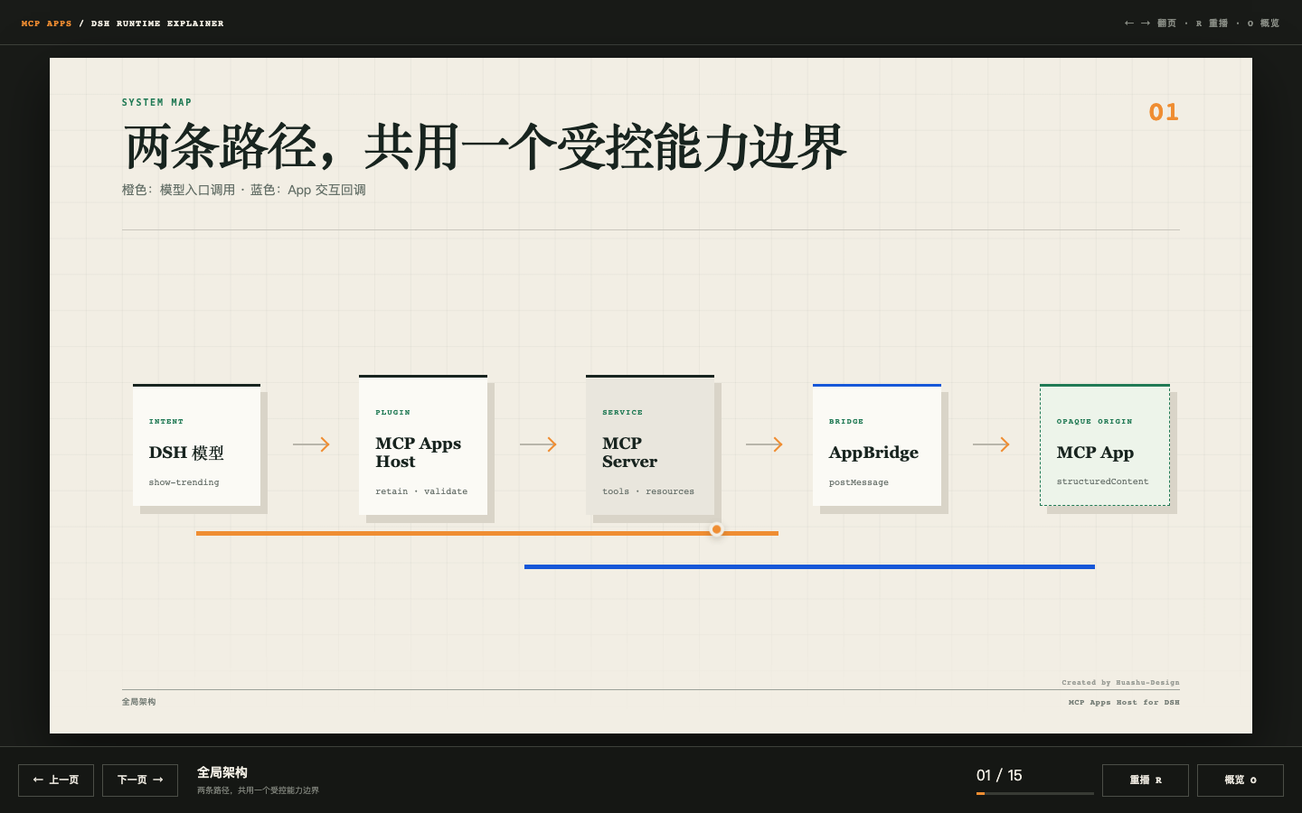
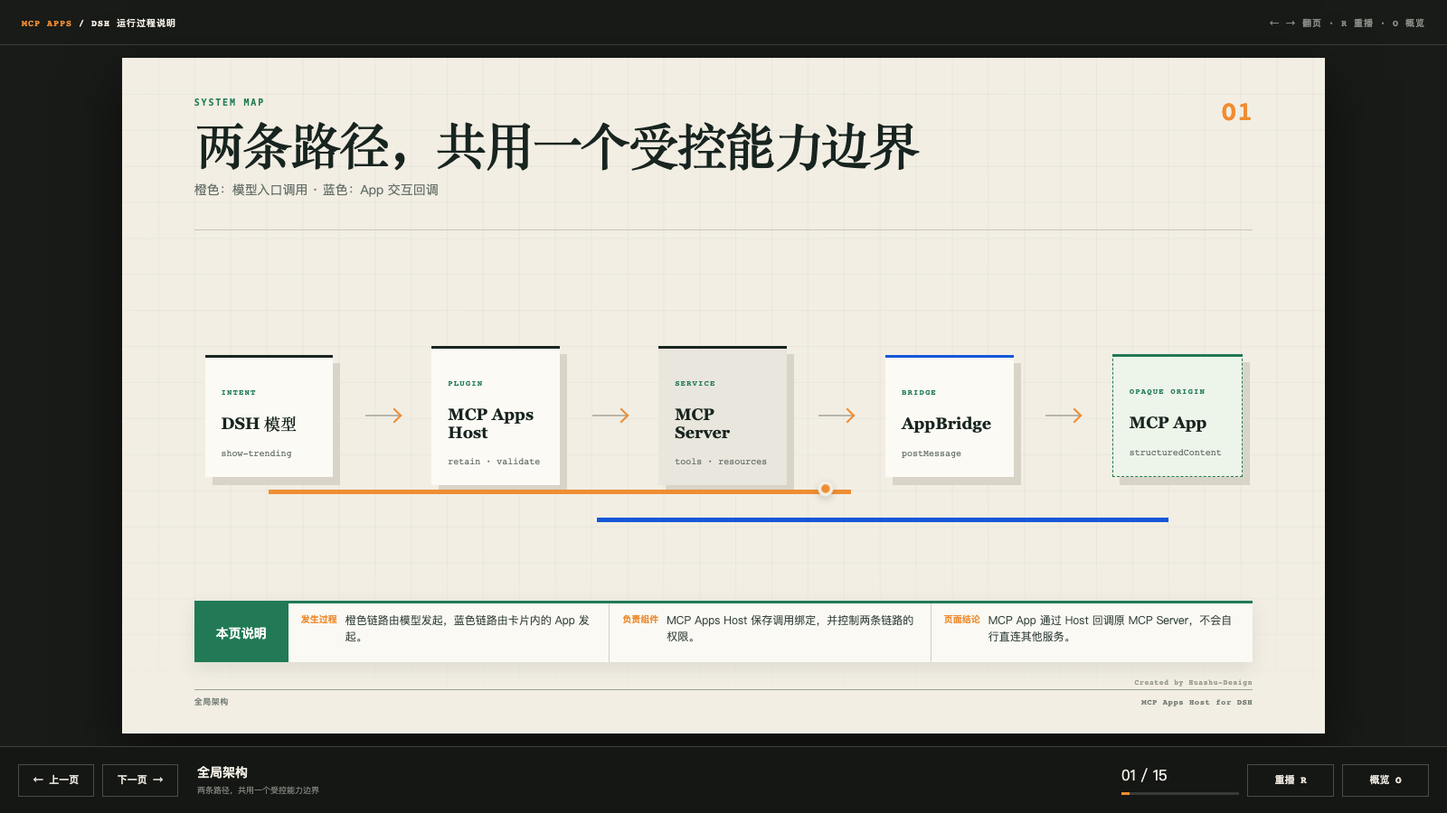
docs: annotate animation pages in Chinese

diff --git a/docs/mcp-apps-runtime-animation/pages/13-wisework-chain.html b/docs/mcp-apps-runtime-animation/pages/13-wisework-chain.html
@@ -1,3 +1,3 @@
 <!doctype html>
 <html lang="zh-CN"><head><meta charset="utf-8"><meta name="viewport" content="width=device-width,initial-scale=1"><title>13 · WiseWork 用 Runtime Broker 接住 OpenCode 工具事件</title><link rel="stylesheet" href="../page.css"></head>
-<body><main class="page"><div class="grid-bg"></div><header class="page-header"><div class="chapter">WISEWORK SIMULATION</div><h1>WiseWork 用 Runtime Broker 接住 OpenCode 工具事件</h1><p>此前模拟链路增加了主进程会话、IPC/Preload、双层沙箱与 DTS MCP App</p><span class="page-no">13</span></header><section class="visual"><div class="ww-chain"><article class="ww-node rise" style="--delay:.1s"><small>MODEL</small><b>OpenCode</b><code>ACP tool event</code></article><i class="arrow fade" style="--delay:.35s"></i><article class="ww-node rise" style="--delay:.3s"><small>ADAPTER</small><b>Runtime Broker</b><code>merge running/completed</code></article><i class="arrow fade" style="--delay:.55s"></i><article class="ww-node rise" style="--delay:.5s"><small>MAIN</small><b>Session Manager</b><code>resource · tool · session</code></article><i class="arrow fade" style="--delay:.75s"></i><article class="ww-node rise" style="--delay:.7s"><small>BOUNDARY</small><b>IPC / Preload</b><code>open · call · close</code></article><i class="arrow fade" style="--delay:.95s"></i><article class="ww-node rise" style="--delay:.9s"><small>RENDERER</small><b>双层 iframe</b><code>opaque origin</code></article><i class="arrow fade" style="--delay:1.15s"></i><article class="ww-node rise" style="--delay:1.1s"><small>BRIDGE</small><b>AppBridge</b><code>callServerTool</code></article><i class="arrow fade" style="--delay:1.35s"></i><article class="ww-node rise" style="--delay:1.3s"><small>SERVICE</small><b>DTS Server</b><code>MockDtsGateway</code></article></div></section><footer class="page-footer"><span>Referenced WiseWork implementation</span><span>MCP Apps Host for DSH</span></footer><span class="watermark">Created by Huashu-Design</span></main><script src="../page.js"></script></body></html>
+<body><main class="page"><div class="grid-bg"></div><header class="page-header"><div class="chapter">WISEWORK SIMULATION</div><h1>WiseWork 用 Runtime Broker 接住 OpenCode 工具事件</h1><p>此前模拟链路增加了主进程会话、IPC/Preload、双层沙箱与 DTS MCP App</p><span class="page-no">13</span></header><section class="visual"><div class="ww-chain"><article class="ww-node rise" style="--delay:.1s"><small>MODEL</small><b>OpenCode</b><code>ACP tool event</code></article><i class="arrow fade" style="--delay:.35s"></i><article class="ww-node rise" style="--delay:.3s"><small>ADAPTER</small><b>Runtime Broker</b><code>merge running/completed</code></article><i class="arrow fade" style="--delay:.55s"></i><article class="ww-node rise" style="--delay:.5s"><small>MAIN</small><b>Session Manager</b><code>resource · tool · session</code></article><i class="arrow fade" style="--delay:.75s"></i><article class="ww-node rise" style="--delay:.7s"><small>BOUNDARY</small><b>IPC / Preload</b><code>open · call · close</code></article><i class="arrow fade" style="--delay:.95s"></i><article class="ww-node rise" style="--delay:.9s"><small>RENDERER</small><b>双层 iframe</b><code>opaque origin</code></article><i class="arrow fade" style="--delay:1.15s"></i><article class="ww-node rise" style="--delay:1.1s"><small>BRIDGE</small><b>AppBridge</b><code>callServerTool</code></article><i class="arrow fade" style="--delay:1.35s"></i><article class="ww-node rise" style="--delay:1.3s"><small>SERVICE</small><b>DTS Server</b><code>MockDtsGateway</code></article></div></section><aside class="page-note rise" style="--delay:.2s" aria-label="本页说明"><strong>本页说明</strong><div><b>发生过程</b><span>OpenCode 的 ACP 工具事件依次经过 Runtime Broker、Session Manager 和 IPC。</span></div><div><b>负责组件</b><span>WiseWork 主进程维护会话，Renderer 用双层 iframe 与 AppBridge 承载 DTS App。</span></div><div><b>页面结论</b><span>这条模拟链路与 DSH 插件采用相同的 Host、沙箱和 App 回调思路。</span></div></aside><footer class="page-footer"><span>Referenced WiseWork implementation</span><span>MCP Apps Host for DSH</span></footer><span class="watermark">Created by Huashu-Design</span></main><script src="../page.js"></script></body></html>

diff --git a/docs/mcp-apps-runtime-animation/pages/02-dsh-runtime.html b/docs/mcp-apps-runtime-animation/pages/02-dsh-runtime.html
@@ -1,3 +1,3 @@
 <!doctype html>
 <html lang="zh-CN"><head><meta charset="utf-8"><meta name="viewport" content="width=device-width,initial-scale=1"><title>02 · DSH 启动时，插件先建立运行面</title><link rel="stylesheet" href="../page.css"></head>
-<body><main class="page"><div class="grid-bg"></div><header class="page-header"><div class="chapter">DSH RUNTIME</div><h1>DSH 启动时，插件先建立运行面</h1><p>Profile composition → plugin apply → MCP connection → tool registration</p><span class="page-no">02</span></header><section class="visual"><div class="node-row"><article class="flow-node rise" style="--delay:.1s"><small>CLI</small><b>dsh web</b><code>profile = web</code></article><i class="arrow fade" style="--delay:.4s"></i><article class="flow-node rise" style="--delay:.3s"><small>COMPOSE</small><b>加载插件包</b><code>@exian/dsh-mcp-apps</code></article><i class="arrow fade" style="--delay:.6s"></i><article class="flow-node active rise" style="--delay:.5s"><small>HOST</small><b>apply(ctx)</b><code>Connection · AppHost</code></article><i class="arrow fade" style="--delay:.8s"></i><article class="flow-node server rise" style="--delay:.7s"><small>CHILD PROCESS</small><b>GitHub Trending</b><code>stdio initialize</code></article><i class="arrow fade" style="--delay:1s"></i><article class="flow-node rise" style="--delay:.9s"><small>MODEL SURFACE</small><b>注册工具</b><code>wise_mcp__…</code></article></div><div class="chips" style="position:absolute;left:23%;right:23%;bottom:5%;justify-content:center"><span class="chip ok pop" style="--delay:1.4s">✓ MCP initialized</span><span class="chip ok pop" style="--delay:1.65s">✓ tools/list</span><span class="chip ok pop" style="--delay:1.9s">✓ UI extension declared</span></div></section><footer class="page-footer"><span>真实 DSH 插件启动过程</span><span>MCP Apps Host for DSH</span></footer><span class="watermark">Created by Huashu-Design</span></main><script src="../page.js"></script></body></html>
+<body><main class="page"><div class="grid-bg"></div><header class="page-header"><div class="chapter">DSH RUNTIME</div><h1>DSH 启动时，插件先建立运行面</h1><p>Profile composition → plugin apply → MCP connection → tool registration</p><span class="page-no">02</span></header><section class="visual"><div class="node-row"><article class="flow-node rise" style="--delay:.1s"><small>CLI</small><b>dsh web</b><code>profile = web</code></article><i class="arrow fade" style="--delay:.4s"></i><article class="flow-node rise" style="--delay:.3s"><small>COMPOSE</small><b>加载插件包</b><code>@exian/dsh-mcp-apps</code></article><i class="arrow fade" style="--delay:.6s"></i><article class="flow-node active rise" style="--delay:.5s"><small>HOST</small><b>apply(ctx)</b><code>Connection · AppHost</code></article><i class="arrow fade" style="--delay:.8s"></i><article class="flow-node server rise" style="--delay:.7s"><small>CHILD PROCESS</small><b>GitHub Trending</b><code>stdio initialize</code></article><i class="arrow fade" style="--delay:1s"></i><article class="flow-node rise" style="--delay:.9s"><small>MODEL SURFACE</small><b>注册工具</b><code>wise_mcp__…</code></article></div><div class="chips" style="position:absolute;left:23%;right:23%;bottom:5%;justify-content:center"><span class="chip ok pop" style="--delay:1.4s">✓ MCP initialized</span><span class="chip ok pop" style="--delay:1.65s">✓ tools/list</span><span class="chip ok pop" style="--delay:1.9s">✓ UI extension declared</span></div></section><aside class="page-note rise" style="--delay:.2s" aria-label="本页说明"><strong>本页说明</strong><div><b>发生过程</b><span>启动 dsh web 后，DSH 组合 web profile、加载插件并连接 MCP Server。</span></div><div><b>负责组件</b><span>插件的 apply(ctx) 创建连接、AppHost 和模型可见工具。</span></div><div><b>页面结论</b><span>完成 initialize、tools/list 与 UI 扩展声明后，MCP App 才具备运行条件。</span></div></aside><footer class="page-footer"><span>真实 DSH 插件启动过程</span><span>MCP Apps Host for DSH</span></footer><span class="watermark">Created by Huashu-Design</span></main><script src="../page.js"></script></body></html>

diff --git a/docs/mcp-apps-runtime-animation/pages/01-system-map.html b/docs/mcp-apps-runtime-animation/pages/01-system-map.html
@@ -1,3 +1,3 @@
 <!doctype html>
 <html lang="zh-CN"><head><meta charset="utf-8"><meta name="viewport" content="width=device-width,initial-scale=1"><title>01 · 两条路径，共用一个受控能力边界</title><link rel="stylesheet" href="../page.css"></head>
-<body><main class="page"><div class="grid-bg"></div><header class="page-header"><div class="chapter">SYSTEM MAP</div><h1>两条路径，共用一个受控能力边界</h1><p>橙色：模型入口调用 · 蓝色：App 交互回调</p><span class="page-no">01</span></header><section class="visual"><div class="node-row"><article class="flow-node rise" style="--delay:.1s"><small>INTENT</small><b>DSH 模型</b><code>show-trending</code></article><i class="arrow fade" style="--delay:.45s"></i><article class="flow-node rise" style="--delay:.3s"><small>PLUGIN</small><b>MCP Apps Host</b><code>retain · validate</code></article><i class="arrow fade" style="--delay:.65s"></i><article class="flow-node server rise" style="--delay:.5s"><small>SERVICE</small><b>MCP Server</b><code>tools · resources</code></article><i class="arrow fade" style="--delay:.85s"></i><article class="flow-node active rise" style="--delay:.7s"><small>BRIDGE</small><b>AppBridge</b><code>postMessage</code></article><i class="arrow fade" style="--delay:1.05s"></i><article class="flow-node sandbox rise" style="--delay:.9s"><small>OPAQUE ORIGIN</small><b>MCP App</b><code>structuredContent</code></article></div><div class="trace" style="left:7%;top:69%;width:55%;--delay:1.4s"></div><div class="trace blue" style="left:38%;top:77%;width:54%;--delay:2s"></div><i class="packet" style="left:8%;top:66.5%;--tx:720px;--delay:1.5s"></i></section><footer class="page-footer"><span>全局架构</span><span>MCP Apps Host for DSH</span></footer><span class="watermark">Created by Huashu-Design</span></main><script src="../page.js"></script></body></html>
+<body><main class="page"><div class="grid-bg"></div><header class="page-header"><div class="chapter">SYSTEM MAP</div><h1>两条路径，共用一个受控能力边界</h1><p>橙色：模型入口调用 · 蓝色：App 交互回调</p><span class="page-no">01</span></header><section class="visual"><div class="node-row"><article class="flow-node rise" style="--delay:.1s"><small>INTENT</small><b>DSH 模型</b><code>show-trending</code></article><i class="arrow fade" style="--delay:.45s"></i><article class="flow-node rise" style="--delay:.3s"><small>PLUGIN</small><b>MCP Apps Host</b><code>retain · validate</code></article><i class="arrow fade" style="--delay:.65s"></i><article class="flow-node server rise" style="--delay:.5s"><small>SERVICE</small><b>MCP Server</b><code>tools · resources</code></article><i class="arrow fade" style="--delay:.85s"></i><article class="flow-node active rise" style="--delay:.7s"><small>BRIDGE</small><b>AppBridge</b><code>postMessage</code></article><i class="arrow fade" style="--delay:1.05s"></i><article class="flow-node sandbox rise" style="--delay:.9s"><small>OPAQUE ORIGIN</small><b>MCP App</b><code>structuredContent</code></article></div><div class="trace" style="left:7%;top:69%;width:55%;--delay:1.4s"></div><div class="trace blue" style="left:38%;top:77%;width:54%;--delay:2s"></div><i class="packet" style="left:8%;top:66.5%;--tx:720px;--delay:1.5s"></i></section><aside class="page-note rise" style="--delay:.2s" aria-label="本页说明"><strong>本页说明</strong><div><b>发生过程</b><span>橙色链路由模型发起，蓝色链路由卡片内的 App 发起。</span></div><div><b>负责组件</b><span>MCP Apps Host 保存调用绑定，并控制两条链路的权限。</span></div><div><b>页面结论</b><span>MCP App 通过 Host 回调原 MCP Server，不会自行直连其他服务。</span></div></aside><footer class="page-footer"><span>全局架构</span><span>MCP Apps Host for DSH</span></footer><span class="watermark">Created by Huashu-Design</span></main><script src="../page.js"></script></body></html>

diff --git a/docs/mcp-apps-runtime-animation/pages/10-server-response.html b/docs/mcp-apps-runtime-animation/pages/10-server-response.html
@@ -1,3 +1,3 @@
 <!doctype html>
 <html lang="zh-CN"><head><meta charset="utf-8"><meta name="viewport" content="width=device-width,initial-scale=1"><title>10 · 业务仍然由原 MCP Server 执行</title><link rel="stylesheet" href="../page.css"></head>
-<body><main class="page"><div class="grid-bg"></div><header class="page-header"><div class="chapter">MCP SERVER</div><h1>业务仍然由原 MCP Server 执行</h1><p>Host 通过保留会话解析服务器，调用 app-visible 的 refresh-trending</p><span class="page-no">10</span></header><section class="visual"><div class="node-row"><article class="flow-node sandbox rise" style="--delay:.1s"><small>INNER APP</small><b>refresh-trending</b><code>{ period: day }</code></article><i class="arrow fade" style="--delay:.4s"></i><article class="flow-node active rise" style="--delay:.35s"><small>APPBRIDGE</small><b>oncalltool</b><code>trusted callback</code></article><i class="arrow fade" style="--delay:.65s"></i><article class="flow-node rise" style="--delay:.6s"><small>CONNECTION RPC</small><b>apps/call</b><code>{ sessionId }</code></article><i class="arrow fade" style="--delay:.9s"></i><article class="flow-node rise" style="--delay:.85s"><small>APPHOST</small><b>validate</b><code>same server</code></article><i class="arrow fade" style="--delay:1.15s"></i><article class="flow-node server pop" style="--delay:1.1s"><small>MCP SERVER</small><b>tools/call</b><code>CallToolResult</code></article></div><div class="trace blue" style="left:8%;top:75%;width:83%;--delay:1.5s"></div></section><footer class="page-footer"><span>AppBridge callback → apps/call → MCP tools/call</span><span>MCP Apps Host for DSH</span></footer><span class="watermark">Created by Huashu-Design</span></main><script src="../page.js"></script></body></html>
+<body><main class="page"><div class="grid-bg"></div><header class="page-header"><div class="chapter">MCP SERVER</div><h1>业务仍然由原 MCP Server 执行</h1><p>Host 通过保留会话解析服务器，调用 app-visible 的 refresh-trending</p><span class="page-no">10</span></header><section class="visual"><div class="node-row"><article class="flow-node sandbox rise" style="--delay:.1s"><small>INNER APP</small><b>refresh-trending</b><code>{ period: day }</code></article><i class="arrow fade" style="--delay:.4s"></i><article class="flow-node active rise" style="--delay:.35s"><small>APPBRIDGE</small><b>oncalltool</b><code>trusted callback</code></article><i class="arrow fade" style="--delay:.65s"></i><article class="flow-node rise" style="--delay:.6s"><small>CONNECTION RPC</small><b>apps/call</b><code>{ sessionId }</code></article><i class="arrow fade" style="--delay:.9s"></i><article class="flow-node rise" style="--delay:.85s"><small>APPHOST</small><b>validate</b><code>same server</code></article><i class="arrow fade" style="--delay:1.15s"></i><article class="flow-node server pop" style="--delay:1.1s"><small>MCP SERVER</small><b>tools/call</b><code>CallToolResult</code></article></div><div class="trace blue" style="left:8%;top:75%;width:83%;--delay:1.5s"></div></section><aside class="page-note rise" style="--delay:.2s" aria-label="本页说明"><strong>本页说明</strong><div><b>发生过程</b><span>校验通过后，请求沿 apps/call 回到原 MCP Server 的 tools/call。</span></div><div><b>负责组件</b><span>MCP Server 执行业务逻辑并返回新的 CallToolResult。</span></div><div><b>页面结论</b><span>Host 负责安全转发和会话绑定，具体业务仍属于 MCP Server。</span></div></aside><footer class="page-footer"><span>AppBridge callback → apps/call → MCP tools/call</span><span>MCP Apps Host for DSH</span></footer><span class="watermark">Created by Huashu-Design</span></main><script src="../page.js"></script></body></html>

diff --git a/docs/mcp-apps-runtime-animation/pages/05-open-app.html b/docs/mcp-apps-runtime-animation/pages/05-open-app.html
@@ -1,3 +1,3 @@
 <!doctype html>
 <html lang="zh-CN"><head><meta charset="utf-8"><meta name="viewport" content="width=device-width,initial-scale=1"><title>05 · 工具卡片恢复一个独立 App 会话</title><link rel="stylesheet" href="../page.css"></head>
-<body><main class="page"><div class="grid-bg"></div><header class="page-header"><div class="chapter">OPEN VIEW</div><h1>工具卡片恢复一个独立 App 会话</h1><p>callToken 不能选择服务器，只能恢复原调用绑定的资源</p><span class="page-no">05</span></header><section class="visual"><div class="node-row"><article class="flow-node rise" style="--delay:.1s"><small>DSH CLIENT</small><b>工具卡片</b><code>presentationMeta</code></article><i class="arrow fade" style="--delay:.4s"></i><article class="flow-node active rise" style="--delay:.35s"><small>CONNECTION RPC</small><b>apps/open</b><code>{ callToken }</code></article><i class="arrow fade" style="--delay:.65s"></i><article class="flow-node rise" style="--delay:.6s"><small>APPHOST</small><b>恢复绑定</b><code>server · tool · result</code></article><i class="arrow fade" style="--delay:.9s"></i><article class="flow-node server rise" style="--delay:.85s"><small>MCP</small><b>resources/read</b><code>ui://…/app.html</code></article><i class="arrow fade" style="--delay:1.15s"></i><article class="flow-node active pop" style="--delay:1.1s"><small>CAPABILITY</small><b>sessionId</b><code>per open view</code></article></div></section><footer class="page-footer"><span>Tool Card → Connection RPC → AppHost</span><span>MCP Apps Host for DSH</span></footer><span class="watermark">Created by Huashu-Design</span></main><script src="../page.js"></script></body></html>
+<body><main class="page"><div class="grid-bg"></div><header class="page-header"><div class="chapter">OPEN VIEW</div><h1>工具卡片恢复一个独立 App 会话</h1><p>callToken 不能选择服务器，只能恢复原调用绑定的资源</p><span class="page-no">05</span></header><section class="visual"><div class="node-row"><article class="flow-node rise" style="--delay:.1s"><small>DSH CLIENT</small><b>工具卡片</b><code>presentationMeta</code></article><i class="arrow fade" style="--delay:.4s"></i><article class="flow-node active rise" style="--delay:.35s"><small>CONNECTION RPC</small><b>apps/open</b><code>{ callToken }</code></article><i class="arrow fade" style="--delay:.65s"></i><article class="flow-node rise" style="--delay:.6s"><small>APPHOST</small><b>恢复绑定</b><code>server · tool · result</code></article><i class="arrow fade" style="--delay:.9s"></i><article class="flow-node server rise" style="--delay:.85s"><small>MCP</small><b>resources/read</b><code>ui://…/app.html</code></article><i class="arrow fade" style="--delay:1.15s"></i><article class="flow-node active pop" style="--delay:1.1s"><small>CAPABILITY</small><b>sessionId</b><code>per open view</code></article></div></section><aside class="page-note rise" style="--delay:.2s" aria-label="本页说明"><strong>本页说明</strong><div><b>发生过程</b><span>工具卡片用 callToken 请求 apps/open，Host 再读取绑定的 HTML 资源。</span></div><div><b>负责组件</b><span>AppHost 恢复原服务器与原工具关系，并为当前视图创建 sessionId。</span></div><div><b>页面结论</b><span>callToken 只能恢复原调用，不能被用来选择另一个 MCP Server。</span></div></aside><footer class="page-footer"><span>Tool Card → Connection RPC → AppHost</span><span>MCP Apps Host for DSH</span></footer><span class="watermark">Created by Huashu-Design</span></main><script src="../page.js"></script></body></html>

diff --git a/docs/mcp-apps-runtime-animation/pages/12-responsibilities.html b/docs/mcp-apps-runtime-animation/pages/12-responsibilities.html
@@ -1,3 +1,3 @@
 <!doctype html>
 <html lang="zh-CN"><head><meta charset="utf-8"><meta name="viewport" content="width=device-width,initial-scale=1"><title>12 · 插件提供运行时，Server 提供业务与界面</title><link rel="stylesheet" href="../page.css"></head>
-<body><main class="page"><div class="grid-bg"></div><header class="page-header"><div class="chapter">RESPONSIBILITIES</div><h1>插件提供运行时，Server 提供业务与界面</h1><p>新增标准 MCP App 时，通常只需要扩展对应 MCP Server</p><span class="page-no">12</span></header><section class="visual"><div class="split"><article class="panel green rise" style="--delay:.1s"><span class="label">PLUGIN HOST</span><h2>连接 · 隔离 · 渲染 · 回调</h2><div class="chips"><span class="chip ok">stdio / HTTP</span><span class="chip ok">session capability</span><span class="chip ok">double iframe</span><span class="chip ok">AppBridge host</span><span class="chip ok">validation</span></div></article><article class="panel blue rise" style="--delay:.55s"><span class="label">MCP SERVER + APP</span><h2>工具 · 数据 · UI · 业务</h2><div class="chips"><span class="chip blue">entry tool</span><span class="chip blue">app-only tool</span><span class="chip blue">UI resource</span><span class="chip blue">structuredContent</span><span class="chip blue">App.connect()</span></div></article></div></section><footer class="page-footer"><span>Host surface and extension boundary</span><span>MCP Apps Host for DSH</span></footer><span class="watermark">Created by Huashu-Design</span></main><script src="../page.js"></script></body></html>
+<body><main class="page"><div class="grid-bg"></div><header class="page-header"><div class="chapter">RESPONSIBILITIES</div><h1>插件提供运行时，Server 提供业务与界面</h1><p>新增标准 MCP App 时，通常只需要扩展对应 MCP Server</p><span class="page-no">12</span></header><section class="visual"><div class="split"><article class="panel green rise" style="--delay:.1s"><span class="label">PLUGIN HOST</span><h2>连接 · 隔离 · 渲染 · 回调</h2><div class="chips"><span class="chip ok">stdio / HTTP</span><span class="chip ok">session capability</span><span class="chip ok">double iframe</span><span class="chip ok">AppBridge host</span><span class="chip ok">validation</span></div></article><article class="panel blue rise" style="--delay:.55s"><span class="label">MCP SERVER + APP</span><h2>工具 · 数据 · UI · 业务</h2><div class="chips"><span class="chip blue">entry tool</span><span class="chip blue">app-only tool</span><span class="chip blue">UI resource</span><span class="chip blue">structuredContent</span><span class="chip blue">App.connect()</span></div></article></div></section><aside class="page-note rise" style="--delay:.2s" aria-label="本页说明"><strong>本页说明</strong><div><b>发生过程</b><span>左侧列出插件运行时能力，右侧列出 MCP Server 与 App 的业务能力。</span></div><div><b>负责组件</b><span>插件负责连接、隔离、会话和校验；Server 负责工具、数据、UI 与业务。</span></div><div><b>页面结论</b><span>接入新 MCP App 时，通常扩展标准 Server/App，无需修改 DSH 核心。</span></div></aside><footer class="page-footer"><span>Host surface and extension boundary</span><span>MCP Apps Host for DSH</span></footer><span class="watermark">Created by Huashu-Design</span></main><script src="../page.js"></script></body></html>

diff --git a/docs/mcp-apps-runtime-animation/pages/04-retain-result.html b/docs/mcp-apps-runtime-animation/pages/04-retain-result.html
@@ -1,3 +1,3 @@
 <!doctype html>
 <html lang="zh-CN"><head><meta charset="utf-8"><meta name="viewport" content="width=device-width,initial-scale=1"><title>04 · 插件把一次结果拆成两个出口</title><link rel="stylesheet" href="../page.css"></head>
-<body><main class="page"><div class="grid-bg"></div><header class="page-header"><div class="chapter">RETAIN RESULT</div><h1>插件把一次结果拆成两个出口</h1><p>模型拿到安全结果，浏览器卡片拿到短期能力标识</p><span class="page-no">04</span></header><section class="visual"><div class="split"><article class="panel green rise" style="--delay:.15s"><span class="label">MODEL SAFE RESULT</span><h2>进入模型上下文</h2><div class="chips"><span class="chip ok">content</span><span class="chip ok">structuredContent</span><span class="chip">UI metadata removed</span></div></article><article class="panel blue rise" style="--delay:.65s"><span class="label">RETAINED IN HOST</span><h2>供 App 初始化</h2><div class="chips"><span class="chip blue">original result</span><span class="chip blue">tool input</span><span class="chip blue">server identity</span><span class="chip blue">resource URI</span></div></article></div><div class="chip pop" style="position:absolute;left:46%;top:44%;background:var(--orange);font-size:13px;--delay:1.35s">callToken</div></section><footer class="page-footer"><span>AppHost · retained result · callToken</span><span>MCP Apps Host for DSH</span></footer><span class="watermark">Created by Huashu-Design</span></main><script src="../page.js"></script></body></html>
+<body><main class="page"><div class="grid-bg"></div><header class="page-header"><div class="chapter">RETAIN RESULT</div><h1>插件把一次结果拆成两个出口</h1><p>模型拿到安全结果，浏览器卡片拿到短期能力标识</p><span class="page-no">04</span></header><section class="visual"><div class="split"><article class="panel green rise" style="--delay:.15s"><span class="label">MODEL SAFE RESULT</span><h2>进入模型上下文</h2><div class="chips"><span class="chip ok">content</span><span class="chip ok">structuredContent</span><span class="chip">UI metadata removed</span></div></article><article class="panel blue rise" style="--delay:.65s"><span class="label">RETAINED IN HOST</span><h2>供 App 初始化</h2><div class="chips"><span class="chip blue">original result</span><span class="chip blue">tool input</span><span class="chip blue">server identity</span><span class="chip blue">resource URI</span></div></article></div><div class="chip pop" style="position:absolute;left:46%;top:44%;background:var(--orange);font-size:13px;--delay:1.35s">callToken</div></section><aside class="page-note rise" style="--delay:.2s" aria-label="本页说明"><strong>本页说明</strong><div><b>发生过程</b><span>插件把一次 CallToolResult 分成模型结果和 Host 保留结果。</span></div><div><b>负责组件</b><span>AppHost 保存原结果、输入、服务器身份与资源 URI，并签发 callToken。</span></div><div><b>页面结论</b><span>模型无需接触运行 UI 所需的全部元数据，卡片也不能伪造原调用。</span></div></aside><footer class="page-footer"><span>AppHost · retained result · callToken</span><span>MCP Apps Host for DSH</span></footer><span class="watermark">Created by Huashu-Design</span></main><script src="../page.js"></script></body></html>

diff --git a/docs/mcp-apps-runtime-animation/pages/09-host-validation.html b/docs/mcp-apps-runtime-animation/pages/09-host-validation.html
@@ -1,3 +1,3 @@
 <!doctype html>
 <html lang="zh-CN"><head><meta charset="utf-8"><meta name="viewport" content="width=device-width,initial-scale=1"><title>09 · Host 决定 App 请求是否被允许</title><link rel="stylesheet" href="../page.css"></head>
-<body><main class="page"><div class="grid-bg"></div><header class="page-header"><div class="chapter">VALIDATE & CALL</div><h1>Host 决定 App 请求是否被允许</h1><p>App 只能提交工具名和参数，不能指定 MCP Server 地址</p><span class="page-no">09</span></header><section class="visual"><div class="gate-grid"><article class="gate rise" style="--delay:.1s"><b>01 SESSION</b><span>sessionId 仍有效</span></article><article class="gate rise" style="--delay:.35s"><b>02 SERVER</b><span>绑定同一 MCP Server</span></article><article class="gate rise" style="--delay:.6s"><b>03 VISIBILITY</b><span>工具包含 app</span></article><article class="gate rise" style="--delay:.85s"><b>04 RESOURCE</b><span>UI resource URI 匹配</span></article><article class="gate rise" style="--delay:1.1s"><b>05 BOUNDARY</b><span>参数与结果大小合法</span></article><article class="gate rise" style="--delay:1.35s"><b>06 LIMITS</b><span>并发和频率未超限</span></article></div><div class="trace blue" style="left:4%;right:4%;bottom:5%;--delay:1.9s"></div></section><footer class="page-footer"><span>AppHost policy gates</span><span>MCP Apps Host for DSH</span></footer><span class="watermark">Created by Huashu-Design</span></main><script src="../page.js"></script></body></html>
+<body><main class="page"><div class="grid-bg"></div><header class="page-header"><div class="chapter">VALIDATE & CALL</div><h1>Host 决定 App 请求是否被允许</h1><p>App 只能提交工具名和参数，不能指定 MCP Server 地址</p><span class="page-no">09</span></header><section class="visual"><div class="gate-grid"><article class="gate rise" style="--delay:.1s"><b>01 SESSION</b><span>sessionId 仍有效</span></article><article class="gate rise" style="--delay:.35s"><b>02 SERVER</b><span>绑定同一 MCP Server</span></article><article class="gate rise" style="--delay:.6s"><b>03 VISIBILITY</b><span>工具包含 app</span></article><article class="gate rise" style="--delay:.85s"><b>04 RESOURCE</b><span>UI resource URI 匹配</span></article><article class="gate rise" style="--delay:1.1s"><b>05 BOUNDARY</b><span>参数与结果大小合法</span></article><article class="gate rise" style="--delay:1.35s"><b>06 LIMITS</b><span>并发和频率未超限</span></article></div><div class="trace blue" style="left:4%;right:4%;bottom:5%;--delay:1.9s"></div></section><aside class="page-note rise" style="--delay:.2s" aria-label="本页说明"><strong>本页说明</strong><div><b>发生过程</b><span>Host 对 session、服务器、工具可见性、资源、数据边界和限额逐项校验。</span></div><div><b>负责组件</b><span>AppHost 是 App 调用 MCP Server 前的唯一授权入口。</span></div><div><b>页面结论</b><span>App 只能调用同一服务器、同一资源所允许的 app-visible 工具。</span></div></aside><footer class="page-footer"><span>AppHost policy gates</span><span>MCP Apps Host for DSH</span></footer><span class="watermark">Created by Huashu-Design</span></main><script src="../page.js"></script></body></html>

diff --git a/docs/mcp-apps-runtime-animation/pages/03-model-entry.html b/docs/mcp-apps-runtime-animation/pages/03-model-entry.html
@@ -1,3 +1,3 @@
 <!doctype html>
 <html lang="zh-CN"><head><meta charset="utf-8"><meta name="viewport" content="width=device-width,initial-scale=1"><title>03 · 模型只调用一次入口工具</title><link rel="stylesheet" href="../page.css"></head>
-<body><main class="page"><div class="grid-bg"></div><header class="page-header"><div class="chapter">ENTRY TOOL</div><h1>模型只调用一次入口工具</h1><p>入口工具对 model 可见，并通过 resourceUri 声明交互界面</p><span class="page-no">03</span></header><section class="visual"><div class="split"><article class="panel rise" style="--delay:.1s"><span class="label">USER INTENT</span><h2>“显示本周 GitHub Trending”</h2><p>DSH 模型选择 <code>wise_mcp__github-trending__show-trending</code>。</p><div class="chips"><span class="chip">period = week</span><span class="chip">language = all</span></div></article><article class="codebox rise" style="--delay:.5s"><b>MODEL</b> tools/call show-trending<br><b>SERVER</b> content + structuredContent<br><b>META</b> ui://github-trending/app.html<br><b>VISIBILITY</b> ["model"]</article></div><div class="trace" style="left:43%;top:49%;width:13%;--delay:1s"></div><i class="packet" style="left:43%;top:47.5%;--tx:180px;--delay:1.05s"></i></section><footer class="page-footer"><span>DSH Model → Tool Registry → MCP Server</span><span>MCP Apps Host for DSH</span></footer><span class="watermark">Created by Huashu-Design</span></main><script src="../page.js"></script></body></html>
+<body><main class="page"><div class="grid-bg"></div><header class="page-header"><div class="chapter">ENTRY TOOL</div><h1>模型只调用一次入口工具</h1><p>入口工具对 model 可见，并通过 resourceUri 声明交互界面</p><span class="page-no">03</span></header><section class="visual"><div class="split"><article class="panel rise" style="--delay:.1s"><span class="label">USER INTENT</span><h2>“显示本周 GitHub Trending”</h2><p>DSH 模型选择 <code>wise_mcp__github-trending__show-trending</code>。</p><div class="chips"><span class="chip">period = week</span><span class="chip">language = all</span></div></article><article class="codebox rise" style="--delay:.5s"><b>MODEL</b> tools/call show-trending<br><b>SERVER</b> content + structuredContent<br><b>META</b> ui://github-trending/app.html<br><b>VISIBILITY</b> ["model"]</article></div><div class="trace" style="left:43%;top:49%;width:13%;--delay:1s"></div><i class="packet" style="left:43%;top:47.5%;--tx:180px;--delay:1.05s"></i></section><aside class="page-note rise" style="--delay:.2s" aria-label="本页说明"><strong>本页说明</strong><div><b>发生过程</b><span>模型根据用户意图选择 show-trending，并把参数交给 MCP Server。</span></div><div><b>负责组件</b><span>入口工具对 model 可见，同时声明对应的 UI resource URI。</span></div><div><b>页面结论</b><span>这一调用既返回模型结果，也为后续打开交互卡片提供依据。</span></div></aside><footer class="page-footer"><span>DSH Model → Tool Registry → MCP Server</span><span>MCP Apps Host for DSH</span></footer><span class="watermark">Created by Huashu-Design</span></main><script src="../page.js"></script></body></html>

diff --git a/docs/mcp-apps-runtime-animation/pages/06-double-sandbox.html b/docs/mcp-apps-runtime-animation/pages/06-double-sandbox.html
@@ -1,3 +1,3 @@
 <!doctype html>
 <html lang="zh-CN"><head><meta charset="utf-8"><meta name="viewport" content="width=device-width,initial-scale=1"><title>06 · 不可信 HTML 只在内层 iframe 执行</title><link rel="stylesheet" href="../page.css"></head>
-<body><main class="page"><div class="grid-bg"></div><header class="page-header"><div class="chapter">DOUBLE SANDBOX</div><h1>不可信 HTML 只在内层 iframe 执行</h1><p>外层代理只负责检查来源和转发协议消息</p><span class="page-no">06</span></header><section class="visual"><div class="nested pop" style="right:34%;--delay:.15s"><div class="nested-inner pop" style="--delay:.7s"><div><small>INNER MCP APP · origin = null</small><b>GitHub Trending</b><code>srcdoc = CSP-wrapped HTML resource</code></div></div></div><div class="chips" style="position:absolute;right:2%;top:12%;width:27%;align-content:flex-start"><span class="chip ok rise" style="--delay:1.3s">allow-scripts only</span><span class="chip ok rise" style="--delay:1.5s">nonce + source window</span><span class="chip ok rise" style="--delay:1.7s">CSP before execution</span><span class="chip ok rise" style="--delay:1.9s">navigation revokes view</span></div></section><footer class="page-footer"><span>Browser · opaque origin · CSP</span><span>MCP Apps Host for DSH</span></footer><span class="watermark">Created by Huashu-Design</span></main><script src="../page.js"></script></body></html>
+<body><main class="page"><div class="grid-bg"></div><header class="page-header"><div class="chapter">DOUBLE SANDBOX</div><h1>不可信 HTML 只在内层 iframe 执行</h1><p>外层代理只负责检查来源和转发协议消息</p><span class="page-no">06</span></header><section class="visual"><div class="nested pop" style="right:34%;--delay:.15s"><div class="nested-inner pop" style="--delay:.7s"><div><small>INNER MCP APP · origin = null</small><b>GitHub Trending</b><code>srcdoc = CSP-wrapped HTML resource</code></div></div></div><div class="chips" style="position:absolute;right:2%;top:12%;width:27%;align-content:flex-start"><span class="chip ok rise" style="--delay:1.3s">allow-scripts only</span><span class="chip ok rise" style="--delay:1.5s">nonce + source window</span><span class="chip ok rise" style="--delay:1.7s">CSP before execution</span><span class="chip ok rise" style="--delay:1.9s">navigation revokes view</span></div></section><aside class="page-note rise" style="--delay:.2s" aria-label="本页说明"><strong>本页说明</strong><div><b>发生过程</b><span>外层代理 iframe 建立边界，MCP Server 返回的 HTML 只在内层执行。</span></div><div><b>负责组件</b><span>外层检查 nonce、消息来源和导航；内层运行 CSP 保护后的 App。</span></div><div><b>页面结论</b><span>两个 iframe 都没有 allow-same-origin，因此 App 得不到宿主页面权限。</span></div></aside><footer class="page-footer"><span>Browser · opaque origin · CSP</span><span>MCP Apps Host for DSH</span></footer><span class="watermark">Created by Huashu-Design</span></main><script src="../page.js"></script></body></html>

diff --git a/docs/mcp-apps-runtime-animation/pages/07-appbridge.html b/docs/mcp-apps-runtime-animation/pages/07-appbridge.html
@@ -1,3 +1,3 @@
 <!doctype html>
 <html lang="zh-CN"><head><meta charset="utf-8"><meta name="viewport" content="width=device-width,initial-scale=1"><title>07 · 官方 SDK 建立 Host 与 App 的协议</title><link rel="stylesheet" href="../page.css"></head>
-<body><main class="page"><div class="grid-bg"></div><header class="page-header"><div class="chapter">APPBRIDGE</div><h1>官方 SDK 建立 Host 与 App 的协议</h1><p>双层 iframe 只是隔离层，AppBridge 才是 MCP Apps 通信层</p><span class="page-no">07</span></header><section class="visual"><div class="bridge-layout"><div class="bridge-end rise" style="--delay:.1s">TRUSTED PARENT<br><small>DSH tool card</small></div><div class="bridge-core pop" style="--delay:.45s">APP<br>BRIDGE</div><div class="bridge-end rise" style="--delay:.8s">INNER APP<br><small>App.connect()</small></div></div><div class="message-lane"><span class="rise" style="--delay:1.2s">initialize</span><span class="rise" style="--delay:1.55s">initialized</span><span class="rise" style="--delay:1.9s">sendToolInput</span><span class="rise" style="--delay:2.25s">sendToolResult</span><span class="rise" style="--delay:2.6s">sizeChanged</span></div></section><footer class="page-footer"><span>AppBridge · PostMessageTransport</span><span>MCP Apps Host for DSH</span></footer><span class="watermark">Created by Huashu-Design</span></main><script src="../page.js"></script></body></html>
+<body><main class="page"><div class="grid-bg"></div><header class="page-header"><div class="chapter">APPBRIDGE</div><h1>官方 SDK 建立 Host 与 App 的协议</h1><p>双层 iframe 只是隔离层，AppBridge 才是 MCP Apps 通信层</p><span class="page-no">07</span></header><section class="visual"><div class="bridge-layout"><div class="bridge-end rise" style="--delay:.1s">TRUSTED PARENT<br><small>DSH tool card</small></div><div class="bridge-core pop" style="--delay:.45s">APP<br>BRIDGE</div><div class="bridge-end rise" style="--delay:.8s">INNER APP<br><small>App.connect()</small></div></div><div class="message-lane"><span class="rise" style="--delay:1.2s">initialize</span><span class="rise" style="--delay:1.55s">initialized</span><span class="rise" style="--delay:1.9s">sendToolInput</span><span class="rise" style="--delay:2.25s">sendToolResult</span><span class="rise" style="--delay:2.6s">sizeChanged</span></div></section><aside class="page-note rise" style="--delay:.2s" aria-label="本页说明"><strong>本页说明</strong><div><b>发生过程</b><span>Host 与 App 通过 initialize、toolInput、toolResult 等消息完成握手。</span></div><div><b>负责组件</b><span>官方 AppBridge 与 PostMessageTransport 定义消息格式和回调方式。</span></div><div><b>页面结论</b><span>双层 iframe 负责隔离，AppBridge 才负责 MCP Apps 协议通信。</span></div></aside><footer class="page-footer"><span>AppBridge · PostMessageTransport</span><span>MCP Apps Host for DSH</span></footer><span class="watermark">Created by Huashu-Design</span></main><script src="../page.js"></script></body></html>

diff --git a/docs/mcp-apps-runtime-animation/pages/08-app-interaction.html b/docs/mcp-apps-runtime-animation/pages/08-app-interaction.html
@@ -1,3 +1,3 @@
 <!doctype html>
 <html lang="zh-CN"><head><meta charset="utf-8"><meta name="viewport" content="width=device-width,initial-scale=1"><title>08 · 用户在卡片中直接调用 App 可见工具</title><link rel="stylesheet" href="../page.css"></head>
-<body><main class="page"><div class="grid-bg"></div><header class="page-header"><div class="chapter">APP PROCESS</div><h1>用户在卡片中直接调用 App 可见工具</h1><p>点击 Today 后，App 发起 refresh-trending，模型不参与这次交互</p><span class="page-no">08</span></header><section class="visual"><div class="split" style="grid-template-columns:34% 1fr"><article class="panel rise" style="--delay:.1s"><span class="label">APP EVENTS</span><h2>Today</h2><div class="codebox" style="box-shadow:none"><b>APP</b> callServerTool({<br>&nbsp; name: "refresh-trending",<br>&nbsp; arguments: { period: "day" }<br>})</div></article><div class="browser-shot pop" style="position:relative;inset:auto;--delay:.5s"><img src="../../images/github-trending-desktop.png" alt="GitHub Trending MCP App"><i class="cursor"></i><i class="click-ring"></i></div></div></section><footer class="page-footer"><span>MCP App → callServerTool()</span><span>MCP Apps Host for DSH</span></footer><span class="watermark">Created by Huashu-Design</span></main><script src="../page.js"></script></body></html>
+<body><main class="page"><div class="grid-bg"></div><header class="page-header"><div class="chapter">APP PROCESS</div><h1>用户在卡片中直接调用 App 可见工具</h1><p>点击 Today 后，App 发起 refresh-trending，模型不参与这次交互</p><span class="page-no">08</span></header><section class="visual"><div class="split" style="grid-template-columns:34% 1fr"><article class="panel rise" style="--delay:.1s"><span class="label">APP EVENTS</span><h2>Today</h2><div class="codebox" style="box-shadow:none"><b>APP</b> callServerTool({<br>&nbsp; name: "refresh-trending",<br>&nbsp; arguments: { period: "day" }<br>})</div></article><div class="browser-shot pop" style="position:relative;inset:auto;--delay:.5s"><img src="../../images/github-trending-desktop.png" alt="GitHub Trending MCP App"><i class="cursor"></i><i class="click-ring"></i></div></div></section><aside class="page-note rise" style="--delay:.2s" aria-label="本页说明"><strong>本页说明</strong><div><b>发生过程</b><span>用户点击 Today，App 调用 refresh-trending 并传入 period=day。</span></div><div><b>负责组件</b><span>AppBridge 把 callServerTool 请求交给可信父页面和 Host。</span></div><div><b>页面结论</b><span>这是卡片内交互，模型不会重新选择工具或参与本次回调。</span></div></aside><footer class="page-footer"><span>MCP App → callServerTool()</span><span>MCP Apps Host for DSH</span></footer><span class="watermark">Created by Huashu-Design</span></main><script src="../page.js"></script></body></html>
